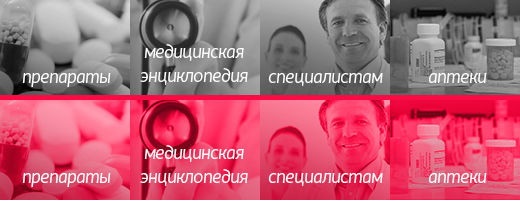
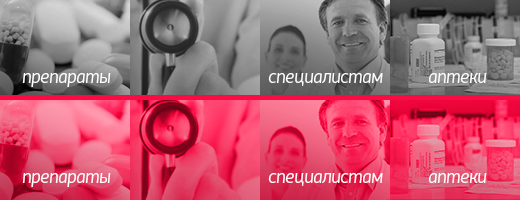
fixed menu style

diff --git a/src/Vidal/MainBundle/Resources/public/stylesheets/common.min.css b/src/Vidal/MainBundle/Resources/public/stylesheets/common.min.css
@@ -1,1 +1,1 @@
-html{margin:0;height:100%}body{margin:0;width:100%;height:100%;font-family:sans-serif;font-size:14px;color:#333}.wrapper{width:995px;margin:0 auto;padding:0 7px;min-height:100%;height:auto!important;height:100%}.header{position:relative;padding-bottom:24px}.header-link{display:block;width:143px;height:105px;background:url(../images/header.jpg) no-repeat top left}.header-about{position:absolute;top:49px;left:173px;width:230px;height:34px;background:url(../images/header-about.jpg) no-repeat top left}.header-search{position:absolute;top:53px;left:479px;width:63px;height:16px;background:url(../images/header-search.jpg) no-repeat top left}.middle{width:100%;position:relative}.main{padding:0 35px;vertical-align:top;min-width:520px}.content{position:relative}.left-sidebar{width:160px;max-width:160px;position:relative;vertical-align:top}.right-sidebar{width:242px;max-width:242px;position:relative;vertical-align:top}.footer{margin-top:32px;border-top:1px solid #d71344;padding:22px 10px 32px;position:relative}.footer-info{max-width:672px;margin:0 auto;text-align:justify;font-size:12px;color:#555}.footer-copyright{height:20px;margin:15px 0;vertical-align:bottom;text-align:center}.footer-copyright span{display:inline-block;margin-bottom:3px;font-size:90%}.footer-logo{display:block;border:none;position:absolute;bottom:6px;right:0}.footer-contacts{position:absolute;bottom:15px;left:0}.footer-contacts a{margin-right:15px;font-size:15px;font-weight:700}sup{line-height:5px}a{color:#d71344}img{border:none}input[type=email],input[type=number],input[type=password],input[type=text],input[type=url]{width:308px;height:27px;padding:0 8px 2px;border-radius:4px;-webkit-border-radius:4px;-moz-border-radius:4px;border:1px solid #d71344}select{width:326px}textarea{width:308px;padding:2px 8px;height:60px;border-radius:4px;-webkit-border-radius:4px;-moz-border-radius:4px;border:1px solid #d71344;resize:vertical}table{border-collapse:collapse;border-spacing:0}h1{font-size:16px;color:#d71344;font-weight:700;margin-bottom:20px;position:relative}h1 span{font-style:italic;color:#999}#main h1:first-of-type{margin-top:0}.caption{color:#d71344}.center{text-align:center}.right{text-align:right}.bg-gray{background:#F6F6F6}.red{color:#d00}.asterisk{margin-left:3px;font-weight:700}.loz{vertical-align:bottom}.small{font-style:normal;font-weight:400;font-size:13px;color:#999!important}.tip{color:#476173;font-size:13px}.bold{font-weight:700}.linke{border-bottom:1px dashed #d71344;text-decoration:none;color:#2f4053;font-weight:700;display:inline-block}.linke:hover{color:#d71344}tr.bold td{background-color:#D7E1EC;padding-left:5px!important}.good{color:green}.note{display:block;background:beige;border:1px solid #e0e0c4;font-size:13px;text-align:center;padding:3px 6px;color:#726b53;text-decoration:none}.note:hover{color:#534d3c;border:1px solid #c0c0a8}.dashed{text-decoration:none;border-bottom:1px dashed #268366}.dot{border-top:1px dotted #d1d1d1;margin-top:2px}.clear{clear:both}.dashed:hover{border-bottom:none}.dotted{line-height:19px;border-bottom:2px dotted #c1c1c1}.dotted:hover{border-bottom:2px dotted #999}.underline{text-decoration:underline}.no-underline{text-decoration:none}.no-underline:hover{text-decoration:underline}.ul,.ul-style{padding:0;margin:0;list-style:none}.ul-style li{padding-left:13px;background:url(../images/bullets.gif) no-repeat -13px -13px;margin-bottom:2px}.border-line{border:1px solid #aaa}.border-radius{border-radius:4px;-moz-border-radius:4px;-webkit-border-radius:4px}.italic{font-style:italic!important}.thanks{margin:5px 0 15px;padding:8px 15px 10px;font-style:italic;font-weight:700;color:#2f4053;background-color:#F6F6F6;font-size:15px}.thanks.error{color:maroon;background:#eee8aa}.raspberry{color:#d71344}#vidal .highlight{color:#d71344;font-weight:700}.no-selection *{-webkit-touch-callout:none;-webkit-user-select:none;-khtml-user-select:none;-moz-user-select:none;-ms-user-select:none;user-select:none}.ajax-loader{height:16px;width:16px;background:url(../images/ajax-loader.gif) no-repeat top left}.title{background-color:#F5F5F5;font-weight:700;font-size:16px}.title a{display:block;padding:5px 7px 6px;text-decoration:none;color:#2e3f51}.title a:hover{text-decoration:underline}.yad{margin:20px 0 10px}.bads{font-size:9px;color:#2f4053}.tags a{display:inline-block;position:relative;font-size:11px;border:1px solid #d4d4d4;border-radius:3px;padding:1px 4px;background:#f6f6f6;color:#505050;text-decoration:none}.tags a:hover{color:#333;background-color:#eee;border-color:#bbb}.sidebar-menu .active{color:#6c7580}.sidebar-menu li{margin-bottom:16px}.sidebar-menu li a{font-weight:700;font-size:16px;text-decoration:none}.auth{margin:30px 0 12px;padding:10px;border:2px solid #eee}.auth .auth-fail-message{display:none;margin:10px 2px 0;font-style:italic;font-size:16px;text-align:center}.auth .auth-info{margin-bottom:10px;font-style:italic;font-size:16px;text-align:center}.auth .auth-password{margin:8px 0 15px}.auth input{height:26px;width:120px;border-radius:0;border:none;background:#e1e1e1}.auth label{display:block;margin-bottom:4px;font-style:italic;font-size:14px;color:#999}.auth-submit{text-align:center}.auth-welcome{margin-bottom:10px;color:#999;font-style:italic;font-size:15px}.auth-controls li{margin-bottom:10px}.auth-controls li a{font-weight:700;font-size:16px;text-decoration:none}.go-registration{margin-bottom:20px;font-size:14px;text-align:center;font-weight:700}.go-reset{margin-top:14px}.go-reset a{color:#919191;font-size:12px}.auth-popup{display:none;position:fixed;width:200px;padding:18px 30px 26px;top:50%;left:50%;margin-top:-220px;margin-left:-130px;background:#fff;border:none;z-index:1001;box-shadow:0 0 10px rgba(0,0,0,.5);-webkit-box-shadow:0 0 10px rgba(0,0,0,.5);-moz-box-shadow:0 0 10px rgba(0,0,0,.5)}.auth-popup input{width:184px}.auth-popup .auth-submit{margin-top:24px;text-align:center}.auth-popup-close{display:block;position:absolute;top:0;right:0;cursor:pointer;opacity:.3}.auth-popup-close:hover{opacity:1}.closed-info{display:none;font-size:15px;background:beige;padding:6px 8px 7px}.closed-info span{margin-right:6px}.form_table{width:100%}.form_table td.label{width:40%;vertical-align:middle;padding-bottom:8px;color:#666d75}.form_table td.widget{width:60%;padding-bottom:8px}.form_table input[type=checkbox]{margin-left:0}.btn-red,.form_table button{display:inline-block;margin:0;padding:5px 22px 7px;background-color:#d71344;color:#fff;border:none;outline:0;cursor:pointer;text-decoration:none;font-size:15px;text-align:center}.btn-red:active,.btn-red:hover,.form_table button:active,.form_table button:hover{background-color:#c0113d}.btn-red:active,.form_table button:active{position:relative;top:1px}.form_table .form_button{padding-top:20px}.form_table .form_error ul{margin:3px 0 10px;padding-left:15px;color:#d00}.form_table .data-help{color:#A1A1A1;font-size:11px;padding-left:1px}.form_errors{color:#d00}#vidal{position:relative}#vidal h1{margin-top:0}#vidal h1 a{text-decoration:none;color:#00468c}#vidal .mnn{color:#476173!important;margin-left:5px}#vidal h1 a.mnn{font-size:15px;margin-left:20px}#vidal h1 a:hover{text-decoration:underline}.anons{margin:13px 0;background:#f5f5f5;padding:3px 5px 5px;color:#476173}.anons-drugs{margin-top:0}.anons-head span{color:#476173}.anons-content{font-size:13px;margin-top:2px;color:#555}.anons-product{font-weight:700}.block{margin-top:17px}.block-anons{padding:3px 5px;background:#f5f5f5}.block-head{margin-bottom:3px;margin-top:2px;font-weight:700;color:#2e3f51;font-size:15px}.block-head span{color:#333}.block-tip span{color:#6C8EA7}.block-tip{font-size:13px;color:#999}.block-content{font-size:13px}.block-content table{width:100%;margin:5px 0;border-collapse:collapse;font-size:13px}.block-content td{padding:3px 5px;border:1px solid #ebebeb}.block-content p{margin:5px 0;font-size:13px}.block-highlight{box-shadow:0 0 15px rgba(0,0,0,.7);border-radius:4px;-moz-border-radius:4px;-webkit-border-radius:4px}.block-info .block-head{display:inline-block;width:145px}.atc-name{margin-left:2px;margin-right:5px}.conditions{overflow:hidden;margin:18px 0 10px}.conditions a{float:left;margin-right:5px}.navigation{margin-top:20px;font-size:14px;position:relative}.navigation>i{display:block;height:5px;line-height:0;font-size:0;background:url(../images/navigation_bg.gif)}.navigation-items{padding:2px 3px 6px;border:1px solid #e9e9e9;border-top:0;background:url(../images/navigation_items_bg.gif) repeat-x 0 100%}.navigation-items div{display:inline-block;width:46%;margin-bottom:5px;padding-left:13px;background:url(../images/bullets.gif) no-repeat -13px -13px}.navigation-items div:last-child{margin-bottom:0}.navigation-items a{text-decoration:none;color:#2e3f51;border-bottom:1px dashed #aaa}.navigation-items a:hover{border-bottom:none;color:#d71344}.navigation-items a span{color:#333}.copy{margin-top:20px}.copy-head{color:#476173;font-size:12px}.copy textarea{width:100%;height:47px!important;margin:2px 0;padding:2px 4px;font-size:12px;opacity:.5;border:1px solid #C54B69;border-radius:0;-webkit-border-radius:0;-moz-border-radius:0}.copy textarea:hover{opacity:1}.vidal .pictures img{display:inline-block;max-height:200px;margin-right:20px}.vidal .elaboration{font-size:16px;margin-left:3px;font-weight:400}.vidal a{font-size:14px}.products-table{width:100%;border-collapse:collapse;border-spacing:0;font-size:14px;line-height:12px;margin:0!important}.products-table td{border:0;border-bottom:1px solid #D4D4D4;padding:4px 5px;vertical-align:middle}.products-table-loz{border-bottom:0!important;padding:0!important}.products-table-header td{font-weight:700;color:#476173;border-bottom:0;padding-top:10px;padding-bottom:5px;font-size:12px}.products-table tr.important .products-table-name{font-weight:700}.products-table-name{font-size:14px;line-height:17px}.products-table-name.admin{position:relative}.products-table-name.admin:hover .admin-edit{opacity:1}.products-table-company{width:30%;font-size:14px;line-height:14px}.products-table-company a{font-size:12px}.products-table-picture{text-align:center}.products-table-picture img{max-width:70px;max-height:70px}.products-table-indication{position:relative;padding:0 5px 0 0!important;cursor:pointer}.products-table-indication img{display:inline-block;width:12px;opacity:.8}.products-table-indication>div{position:absolute;left:0;top:28px;width:400px;padding:6px 10px;background:beige;border:1px solid #ccc;border-radius:4px;-webkit-border-radius:4px;-moz-border-radius:4px;box-shadow:0 0 10px rgba(0,0,0,.4);z-index:999;font-size:13px}.products-table-indication>div p{margin:3px}.products-table-zip{margin-left:10px;font-size:13px}.products-table-zip>span{display:block;margin:5px 0 2px;font-size:12px;color:#999}.products-table-indication>div{display:none}.products-table-indication p{margin:0}.products-table tr:last-child td{border-bottom:0}.admin-edit{display:inline-block;position:absolute;top:0;right:0;opacity:0;z-index:10}.admin-edit img{width:18px;border:none!important}.admin-edit.fade{opacity:.4}.admin-edit.fade:hover{opacity:1}.no-results{padding:6px 10px 7px;background:#f5f5f5;font-size:16px;color:#476173}.no-results span{color:#4682b4}#search_form{position:absolute;top:36px;right:0;width:440px}#search_form .chosen-container-single .chosen-single{border-radius:0}#search_form table{width:100%}#search_form .search-type{vertical-align:top;background:0 0;border:none;font-style:italic;width:175px;font-size:15px}#search_form .search-inputs{width:257px}#search_form .search-query,#search_form .search-submit{float:right}#search_form .sf{width:261px}#search_form .st{padding:5px 0 0 2px}#search_form .row1 td{border:1px solid #ccc;background:#F6F6F6}.search td{padding:0}.search-inputs{overflow:hidden}.search .search-type{width:160px}.search .search-query{display:inline-block;width:195px;margin:0 0 0 2px;padding:0 6px;border:none;outline:0;height:50px;background:#F6F6F6;vertical-align:top;font-style:italic;font-size:14px}.search-bad{position:absolute;left:0;bottom:-20px;color:#2f4053;font-size:14px}.search-bad>*{display:inline-block;vertical-align:top}.search .search-inputs{display:inline-block}#wrapper .search .chosen-container-single .chosen-single{border:none;height:50px;background:#F6F6F6}#wrapper #search_form .chosen-container-active.chosen-with-drop .chosen-single{border:none}#wrapper #search_form .chosen-container .chosen-drop{border:1px solid #eee;border-radius:0;background:#F6F6F6}.search .chosen-container-single .chosen-single span{margin-top:12px}.search .chosen-container{vertical-align:top;color:#2e3f51;font-style:italic;font-size:14px}.search .chosen-container-single .chosen-single div{top:13px;width:16px}.search .chosen-container-single .chosen-single span{margin-right:16px}.search .chosen-container-active .chosen-single{border:none;box-shadow:none}.search .search-submit{background:#F6F6F6 url(../images/search.png) no-repeat 50% 50%;width:49px;height:49px;border:none;cursor:pointer;outline:0}#searche_link{border-bottom:1px dashed #d71344;text-decoration:none;color:#2f4053;font-size:14px}.search-info{margin-left:5px;padding-left:22px;font-size:15px;color:#476173;background:url(../images/search_16.png) no-repeat top left}.search-info b{color:#333}.pagination{overflow:hidden;font-size:15px}.pagination span{display:inline-block;width:26px;text-align:center;height:22px;line-height:22px;margin-right:2px;font-weight:700;float:left;border:1px solid #cfd1da}.pagination a{text-decoration:none;display:inline-block;width:26px;color:#d71344}.pagination .current,.pagination span:hover a{color:#fff;background-color:#d71344}.pagination .next,.pagination .next a,.pagination .previous,.pagination .previous a{width:51px}.menu{overflow:hidden;margin-bottom:24px}.menu a{position:relative;display:block;float:left;width:130px;height:99px;background-image:url(../images/bg/menu-small.png);background-repeat:no-repeat;z-index:10}.menu a span{display:block;position:absolute;z-index:5;text-align:center;left:0;right:0;bottom:10px;color:#EFEFEF;font-style:italic;font-size:16px;line-height:16px}.menu-drugs{background-position:0 0}.menu-drugs .linke{margin-bottom:10px}.menu-symptoms{background-position:-130px 0}.menu-doctors{background-position:-260px 0}.menu-pharmacy{background-position:-390px 0}.menu-drugs.active,.menu-drugs:hover{background-position:0 -101px}.menu-symptoms.active,.menu-symptoms:hover{background-position:-130px -101px}.menu-doctors.active,.menu-doctors:hover{background-position:-260px -101px}.menu-pharmacy.active,.menu-pharmacy:hover{background-position:-390px -101px}.menu-big a{background-image:url(../images/bg/menu-big.png);height:246px}.menu-big .menu-drugs{background-position:0 -1px}.menu-big .menu-symptoms{background-position:-130px -1px}.menu-big .menu-doctors{background-position:-260px -1px}.menu-big .menu-pharmacy{background-position:-390px -1px}.menu-big .menu-drugs.active,.menu-big .menu-drugs:hover{background-position:0 -249px}.menu-big .menu-symptoms.active,.menu-big .menu-symptoms:hover{background-position:-130px -249px}.menu-big .menu-doctors.active,.menu-big .menu-doctors:hover{background-position:-260px -249px}.menu-big .menu-pharmacy.active,.menu-big .menu-pharmacy:hover{background-position:-390px -249px}.breadcrumbs{margin:-10px 0 20px;font-size:14px;color:#2f4053;line-height:17px}.breadcrumbs>*{display:inline-block;vertical-align:top}.breadcrumbs i{width:16px;height:16px;background:url(../images/menu-next.png) no-repeat}.breadcrumbs a{color:#2f4053}.tabs{margin-bottom:22px;background:none repeat scroll 0 0 #E8F2F4;border:1px solid #D6DADD;position:relative}.menu-drugs .tabs{margin-bottom:20px}.tabs a{display:inline-block;padding:5px 7px 6px 6px;text-decoration:none;color:#2e3f51;font-weight:700;font-size:13px}.tabs a.active{color:#fff;background-color:#2e3f51}.tabs a.active:hover{background-color:#2e3f51}.tabs a:hover{background:#D4D4D4}.tabs-more{display:none;position:absolute;width:200px;top:27px;right:-1px;background:none repeat scroll 0 0 #E8F2F4;border:1px solid #D6DADD;z-index:999}.tabs-more a{display:block}.info-line{margin-top:17px;padding:4px 6px 5px;font-weight:700;color:#2e3f51;font-size:15px;margin-bottom:4px;background:#f5f5f5}.info-line i{display:inline-block;margin:0 1px;font-style:normal;color:#476173}.info-line span{color:#333}.banner{position:relative;margin:0 auto;border:1px solid #ddd}#banner_top img{border:none}#banner_bottom{clear:both;margin:0 auto 20px}.banner a,.banner div,.banner img{display:block;position:absolute;top:0;left:0;z-index:5}.banner a{position:absolute}.left-sidebar>div,.right-sidebar>div{margin-bottom:25px}.footer-banner{text-align:center}.footer-banner>div{display:inline-block;margin-top:20px}.description{border:3px solid #eee;font-size:14px!important;margin-bottom:10px;color:#555}.description>span{display:block;background:#f5f5f5;padding:4px 7px 7px;color:#476173;border-bottom:1px solid #eee}.description>div{padding:6px 7px 8px}.module{position:relative}.module.hidden{border:none}.module-1{position:relative;border:3px solid #eee;font-size:14px!important;color:#555;margin-bottom:24px}.module-1 p{margin:0}.module-1 .module-title{background:#f5f5f5;padding:4px 10px 6px;color:#476173;font-size:15px;border-bottom:1px solid #eee}.module-1 .module-body{padding:5px 10px 7px}.text{overflow:hidden;max-width:520px}.article .text,.publication .text{padding:0;margin:0}.text p{margin-left:0!important;margin-right:0!important}.text a,.text a *{color:#d71344!important;text-decoration:none!important}.text a :hover,.text a:hover{text-decoration:underline!important}.text img{max-width:520px!important}.text p{margin-top:0!important;margin-bottom:9px!important}.text p,.text p *{line-height:inherit!important}.text td p{margin:0!important}.text *{font-family:sans-serif!important;font-size:14px}.text sup,.text sup *{vertical-align:top;font-size:11px!important;line-height:9px!important}.u1 li{margin:1px 0!important}.u2 li{margin:2px 0!important}.u3 li{margin:3px 0!important}.u4 li{margin:4px 0!important}.u5 li{margin:5px 0!important}.u6 li{margin:6px 0!important}.u7 li{margin:7px 0!important}.u8 li{margin:8px 0!important}.u9 li{margin:9px 0!important}.u10 li{margin:10px 0!important}.u11 li{margin:11px 0!important}.u12 li{margin:12px 0!important}.u13 li{margin:13px 0!important}.u14 li{margin:14px 0!important}.u15 li{margin:15px 0!important}.u16 li{margin:16px 0!important}.u17 li{margin:17px 0!important}.u18 li{margin:18px 0!important}.u19 li{margin:19px 0!important}.u20 li{margin:20px 0!important}.p1 *{line-height:1px!important}.p2 *{line-height:2px!important}.p3 *{line-height:3px!important}.p4 *{line-height:4px!important}.p5 *{line-height:5px!important}.p6 *{line-height:6px!important}.p7 *{line-height:7px!important}.p8 *{line-height:8px!important}.p9 *{line-height:9px!important}.p10 *{line-height:10px!important}.p11 *{line-height:11px!important}.p12 *{line-height:12px!important}.p13 *{line-height:13px!important}.p14 *{line-height:14px!important}.p15 *{line-height:15px!important}.p16 *{line-height:16px!important}.p17 *{line-height:17px!important}.p18 *{line-height:18px!important}.p19 *{line-height:19px!important}.p20 *{line-height:20px!important}#overlay{position:fixed;display:none;top:0;left:0;width:100%;height:100%;background:url(../images/bg/dia.png) top left;filter:alpha(opacity=30);-moz-opacity:.3;-khtml-opacity:.3;opacity:.3;z-index:1000}#top-link{display:none;z-index:999;opacity:.7;position:fixed;top:100%;left:100%;margin-top:-80px;margin-left:-80px}#top-link:hover{opacity:1}.ui-menu{width:300px!important}.ui-menu-item em{font-style:normal;font-weight:700}.ui-menu .ui-menu-item a{font-size:12px}.ui-menu .aut.ui-menu-item{border-bottom:1px dotted #ccc}.ui-menu .aut.ui-menu-item:last-child{border-bottom:none}.ui-menu .aut.ui-menu-item a{line-height:1.2;color:#2e3f51}.ui-menu .aut.ui-menu-item i{margin-right:8px;font-size:12px;color:#999}#phrpAd{background:#FAFAFA;border:1px solid #CED2D5!important}#phrpAd h1{background-color:#D8DBE2!important;color:#476173!important;font-size:12px!important;padding:0 0 2px!important;margin-bottom:5px!important}#phrpAd a{text-decoration:none!important;color:#555!important}#phrpAd a:hover{text-decoration:underline!important}#phrpAd .aSTtl a{font-size:11px;color:#d71344!important}#phrpAd .aCt{font-weight:400!important;color:gray!important;font-size:11px}#phrpAd .aTtl{font-size:12px!important}#phrpAd .aItem{margin:5px 10px 0!important;border-bottom:1px dashed #CED2D5;padding-bottom:6px}.popupMarket{position:fixed;background:#FFF0F0;border:2px solid #555;box-shadow:0 0 10px rgba(0,0,0,.5);text-align:center;top:40%;left:50%;width:250px;margin-left:-125px;padding:20px;border-radius:5px;z-index:999999;display:none}
+html{margin:0;height:100%}body{margin:0;width:100%;height:100%;font-family:sans-serif;font-size:14px;color:#333}.wrapper{width:995px;margin:0 auto;padding:0 7px;min-height:100%;height:auto!important;height:100%}.header{position:relative;padding-bottom:24px}.header-link{display:block;width:143px;height:105px;background:url(../images/header.jpg) no-repeat top left}.header-about{position:absolute;top:49px;left:173px;width:230px;height:34px;background:url(../images/header-about.jpg) no-repeat top left}.header-search{position:absolute;top:53px;left:479px;width:63px;height:16px;background:url(../images/header-search.jpg) no-repeat top left}.middle{width:100%;position:relative}.main{padding:0 35px;vertical-align:top;min-width:520px}.content{position:relative}.left-sidebar{width:160px;max-width:160px;position:relative;vertical-align:top}.right-sidebar{width:242px;max-width:242px;position:relative;vertical-align:top}.footer{margin-top:32px;border-top:1px solid #d71344;padding:22px 10px 32px;position:relative}.footer-info{max-width:672px;margin:0 auto;text-align:justify;font-size:12px;color:#555}.footer-copyright{height:20px;margin:15px 0;vertical-align:bottom;text-align:center}.footer-copyright span{display:inline-block;margin-bottom:3px;font-size:90%}.footer-logo{display:block;border:none;position:absolute;bottom:6px;right:0}.footer-contacts{position:absolute;bottom:15px;left:0}.footer-contacts a{margin-right:15px;font-size:15px;font-weight:700}sup{line-height:5px}a{color:#d71344}img{border:none}input[type=email],input[type=number],input[type=password],input[type=text],input[type=url]{width:308px;height:27px;padding:0 8px 2px;border-radius:4px;-webkit-border-radius:4px;-moz-border-radius:4px;border:1px solid #d71344}select{width:326px}textarea{width:308px;padding:2px 8px;height:60px;border-radius:4px;-webkit-border-radius:4px;-moz-border-radius:4px;border:1px solid #d71344;resize:vertical}table{border-collapse:collapse;border-spacing:0}h1{font-size:16px;color:#d71344;font-weight:700;margin-bottom:20px;position:relative}h1 span{font-style:italic;color:#999}#main h1:first-of-type{margin-top:0}.caption{color:#d71344}.center{text-align:center}.right{text-align:right}.bg-gray{background:#F6F6F6}.red{color:#d00}.asterisk{margin-left:3px;font-weight:700}.loz{vertical-align:bottom}.small{font-style:normal;font-weight:400;font-size:13px;color:#999!important}.tip{color:#476173;font-size:13px}.bold{font-weight:700}.linke{border-bottom:1px dashed #d71344;text-decoration:none;color:#2f4053;font-weight:700;display:inline-block}.linke:hover{color:#d71344}tr.bold td{background-color:#D7E1EC;padding-left:5px!important}.good{color:green}.note{display:block;background:beige;border:1px solid #e0e0c4;font-size:13px;text-align:center;padding:3px 6px;color:#726b53;text-decoration:none}.note:hover{color:#534d3c;border:1px solid #c0c0a8}.dashed{text-decoration:none;border-bottom:1px dashed #268366}.dot{border-top:1px dotted #d1d1d1;margin-top:2px}.clear{clear:both}.dashed:hover{border-bottom:none}.dotted{line-height:19px;border-bottom:2px dotted #c1c1c1}.dotted:hover{border-bottom:2px dotted #999}.underline{text-decoration:underline}.no-underline{text-decoration:none}.no-underline:hover{text-decoration:underline}.ul,.ul-style{padding:0;margin:0;list-style:none}.ul-style li{padding-left:13px;background:url(../images/bullets.gif) no-repeat -13px -13px;margin-bottom:2px}.border-line{border:1px solid #aaa}.border-radius{border-radius:4px;-moz-border-radius:4px;-webkit-border-radius:4px}.italic{font-style:italic!important}.thanks{margin:5px 0 15px;padding:8px 15px 10px;font-style:italic;font-weight:700;color:#2f4053;background-color:#F6F6F6;font-size:15px}.thanks.error{color:maroon;background:#eee8aa}.raspberry{color:#d71344}#vidal .highlight{color:#d71344;font-weight:700}.no-selection *{-webkit-touch-callout:none;-webkit-user-select:none;-khtml-user-select:none;-moz-user-select:none;-ms-user-select:none;user-select:none}.ajax-loader{height:16px;width:16px;background:url(../images/ajax-loader.gif) no-repeat top left}.title{background-color:#F5F5F5;font-weight:700;font-size:16px}.title a{display:block;padding:5px 7px 6px;text-decoration:none;color:#2e3f51}.title a:hover{text-decoration:underline}.yad{margin:20px 0 10px}.bads{font-size:9px;color:#2f4053}.tags a{display:inline-block;position:relative;font-size:11px;border:1px solid #d4d4d4;border-radius:3px;padding:1px 4px;background:#f6f6f6;color:#505050;text-decoration:none}.tags a:hover{color:#333;background-color:#eee;border-color:#bbb}.sidebar-menu .active{color:#6c7580}.sidebar-menu li{margin-bottom:16px}.sidebar-menu li a{font-weight:700;font-size:16px;text-decoration:none}.auth{margin:30px 0 12px;padding:10px;border:2px solid #eee}.auth .auth-fail-message{display:none;margin:10px 2px 0;font-style:italic;font-size:16px;text-align:center}.auth .auth-info{margin-bottom:10px;font-style:italic;font-size:16px;text-align:center}.auth .auth-password{margin:8px 0 15px}.auth input{height:26px;width:120px;border-radius:0;border:none;background:#e1e1e1}.auth label{display:block;margin-bottom:4px;font-style:italic;font-size:14px;color:#999}.auth-submit{text-align:center}.auth-welcome{margin-bottom:10px;color:#999;font-style:italic;font-size:15px}.auth-controls li{margin-bottom:10px}.auth-controls li a{font-weight:700;font-size:16px;text-decoration:none}.go-registration{margin-bottom:20px;font-size:14px;text-align:center;font-weight:700}.go-reset{margin-top:14px}.go-reset a{color:#919191;font-size:12px}.auth-popup{display:none;position:fixed;width:200px;padding:18px 30px 26px;top:50%;left:50%;margin-top:-220px;margin-left:-130px;background:#fff;border:none;z-index:1001;box-shadow:0 0 10px rgba(0,0,0,.5);-webkit-box-shadow:0 0 10px rgba(0,0,0,.5);-moz-box-shadow:0 0 10px rgba(0,0,0,.5)}.auth-popup input{width:184px}.auth-popup .auth-submit{margin-top:24px;text-align:center}.auth-popup-close{display:block;position:absolute;top:0;right:0;cursor:pointer;opacity:.3}.auth-popup-close:hover{opacity:1}.closed-info{display:none;font-size:15px;background:beige;padding:6px 8px 7px}.closed-info span{margin-right:6px}.form_table{width:100%}.form_table td.label{width:40%;vertical-align:middle;padding-bottom:8px;color:#666d75}.form_table td.widget{width:60%;padding-bottom:8px}.form_table input[type=checkbox]{margin-left:0}.btn-red,.form_table button{display:inline-block;margin:0;padding:5px 22px 7px;background-color:#d71344;color:#fff;border:none;outline:0;cursor:pointer;text-decoration:none;font-size:15px;text-align:center}.btn-red:active,.btn-red:hover,.form_table button:active,.form_table button:hover{background-color:#c0113d}.btn-red:active,.form_table button:active{position:relative;top:1px}.form_table .form_button{padding-top:20px}.form_table .form_error ul{margin:3px 0 10px;padding-left:15px;color:#d00}.form_table .data-help{color:#A1A1A1;font-size:11px;padding-left:1px}.form_errors{color:#d00}#vidal{position:relative}#vidal h1{margin-top:0}#vidal h1 a{text-decoration:none;color:#00468c}#vidal .mnn{color:#476173!important;margin-left:5px}#vidal h1 a.mnn{font-size:15px;margin-left:20px}#vidal h1 a:hover{text-decoration:underline}.anons{margin:13px 0;background:#f5f5f5;padding:3px 5px 5px;color:#476173}.anons-drugs{margin-top:0}.anons-head span{color:#476173}.anons-content{font-size:13px;margin-top:2px;color:#555}.anons-product{font-weight:700}.block{margin-top:17px}.block-anons{padding:3px 5px;background:#f5f5f5}.block-head{margin-bottom:3px;margin-top:2px;font-weight:700;color:#2e3f51;font-size:15px}.block-head span{color:#333}.block-tip span{color:#6C8EA7}.block-tip{font-size:13px;color:#999}.block-content{font-size:13px}.block-content table{width:100%;margin:5px 0;border-collapse:collapse;font-size:13px}.block-content td{padding:3px 5px;border:1px solid #ebebeb}.block-content p{margin:5px 0;font-size:13px}.block-highlight{box-shadow:0 0 15px rgba(0,0,0,.7);border-radius:4px;-moz-border-radius:4px;-webkit-border-radius:4px}.block-info .block-head{display:inline-block;width:145px}.atc-name{margin-left:2px;margin-right:5px}.conditions{overflow:hidden;margin:18px 0 10px}.conditions a{float:left;margin-right:5px}.navigation{margin-top:20px;font-size:14px;position:relative}.navigation>i{display:block;height:5px;line-height:0;font-size:0;background:url(../images/navigation_bg.gif)}.navigation-items{padding:2px 3px 6px;border:1px solid #e9e9e9;border-top:0;background:url(../images/navigation_items_bg.gif) repeat-x 0 100%}.navigation-items div{display:inline-block;width:46%;margin-bottom:5px;padding-left:13px;background:url(../images/bullets.gif) no-repeat -13px -13px}.navigation-items div:last-child{margin-bottom:0}.navigation-items a{text-decoration:none;color:#2e3f51;border-bottom:1px dashed #aaa}.navigation-items a:hover{border-bottom:none;color:#d71344}.navigation-items a span{color:#333}.copy{margin-top:20px}.copy-head{color:#476173;font-size:12px}.copy textarea{width:100%;height:47px!important;margin:2px 0;padding:2px 4px;font-size:12px;opacity:.5;border:1px solid #C54B69;border-radius:0;-webkit-border-radius:0;-moz-border-radius:0}.copy textarea:hover{opacity:1}.vidal .pictures img{display:inline-block;max-height:200px;margin-right:20px}.vidal .elaboration{font-size:16px;margin-left:3px;font-weight:400}.vidal a{font-size:14px}.products-table{width:100%;border-collapse:collapse;border-spacing:0;font-size:14px;line-height:12px;margin:0!important}.products-table td{border:0;border-bottom:1px solid #D4D4D4;padding:4px 5px;vertical-align:middle}.products-table-loz{border-bottom:0!important;padding:0!important}.products-table-header td{font-weight:700;color:#476173;border-bottom:0;padding-top:10px;padding-bottom:5px;font-size:12px}.products-table tr.important .products-table-name{font-weight:700}.products-table-name{font-size:14px;line-height:17px}.products-table-name.admin{position:relative}.products-table-name.admin:hover .admin-edit{opacity:1}.products-table-company{width:30%;font-size:14px;line-height:14px}.products-table-company a{font-size:12px}.products-table-picture{text-align:center}.products-table-picture img{max-width:70px;max-height:70px}.products-table-indication{position:relative;padding:0 5px 0 0!important;cursor:pointer}.products-table-indication img{display:inline-block;width:12px;opacity:.8}.products-table-indication>div{position:absolute;left:0;top:28px;width:400px;padding:6px 10px;background:beige;border:1px solid #ccc;border-radius:4px;-webkit-border-radius:4px;-moz-border-radius:4px;box-shadow:0 0 10px rgba(0,0,0,.4);z-index:999;font-size:13px}.products-table-indication>div p{margin:3px}.products-table-zip{margin-left:10px;font-size:13px}.products-table-zip>span{display:block;margin:5px 0 2px;font-size:12px;color:#999}.products-table-indication>div{display:none}.products-table-indication p{margin:0}.products-table tr:last-child td{border-bottom:0}.admin-edit{display:inline-block;position:absolute;top:0;right:0;opacity:0;z-index:10}.admin-edit img{width:18px;border:none!important}.admin-edit.fade{opacity:.4}.admin-edit.fade:hover{opacity:1}.no-results{padding:6px 10px 7px;background:#f5f5f5;font-size:16px;color:#476173}.no-results span{color:#4682b4}#search_form{position:absolute;top:36px;right:0;width:440px}#search_form .chosen-container-single .chosen-single{border-radius:0}#search_form table{width:100%}#search_form .search-type{vertical-align:top;background:0 0;border:none;font-style:italic;width:175px;font-size:15px}#search_form .search-inputs{width:257px}#search_form .search-query,#search_form .search-submit{float:right}#search_form .sf{width:261px}#search_form .st{padding:5px 0 0 2px}#search_form .row1 td{border:1px solid #ccc;background:#F6F6F6}.search td{padding:0}.search-inputs{overflow:hidden}.search .search-type{width:160px}.search .search-query{display:inline-block;width:195px;margin:0 0 0 2px;padding:0 6px;border:none;outline:0;height:50px;background:#F6F6F6;vertical-align:top;font-style:italic;font-size:14px}.search-bad{position:absolute;left:0;bottom:-20px;color:#2f4053;font-size:14px}.search-bad>*{display:inline-block;vertical-align:top}.search .search-inputs{display:inline-block}#wrapper .search .chosen-container-single .chosen-single{border:none;height:50px;background:#F6F6F6}#wrapper #search_form .chosen-container-active.chosen-with-drop .chosen-single{border:none}#wrapper #search_form .chosen-container .chosen-drop{border:1px solid #eee;border-radius:0;background:#F6F6F6}.search .chosen-container-single .chosen-single span{margin-top:12px}.search .chosen-container{vertical-align:top;color:#2e3f51;font-style:italic;font-size:14px}.search .chosen-container-single .chosen-single div{top:13px;width:16px}.search .chosen-container-single .chosen-single span{margin-right:16px}.search .chosen-container-active .chosen-single{border:none;box-shadow:none}.search .search-submit{background:#F6F6F6 url(../images/search.png) no-repeat 50% 50%;width:49px;height:49px;border:none;cursor:pointer;outline:0}#searche_link{border-bottom:1px dashed #d71344;text-decoration:none;color:#2f4053;font-size:14px}.search-info{margin-left:5px;padding-left:22px;font-size:15px;color:#476173;background:url(../images/search_16.png) no-repeat top left}.search-info b{color:#333}.pagination{overflow:hidden;font-size:15px}.pagination span{display:inline-block;width:26px;text-align:center;height:22px;line-height:22px;margin-right:2px;font-weight:700;float:left;border:1px solid #cfd1da}.pagination a{text-decoration:none;display:inline-block;width:26px;color:#d71344}.pagination .current,.pagination span:hover a{color:#fff;background-color:#d71344}.pagination .next,.pagination .next a,.pagination .previous,.pagination .previous a{width:51px}.menu{overflow:hidden;margin-bottom:24px}.menu a{position:relative;display:block;float:left;width:130px;height:99px;background-image:url(../images/bg/menu-small.png);background-repeat:no-repeat;z-index:10}.menu a img{display:inline-block;position:absolute;bottom:12px;left:12px;z-index:5}.menu-drugs{background-position:0 0}.menu-drugs .linke{margin-bottom:10px}.menu-symptoms{background-position:-130px 0}.menu-doctors{background-position:-260px 0}.menu-pharmacy{background-position:-390px 0}.menu-drugs.active,.menu-drugs:hover{background-position:0 -101px}.menu-symptoms.active,.menu-symptoms:hover{background-position:-130px -101px}.menu-doctors.active,.menu-doctors:hover{background-position:-260px -101px}.menu-pharmacy.active,.menu-pharmacy:hover{background-position:-390px -101px}.menu-small .menu-drugs.active,.menu-small .menu-drugs:hover{background-position:0 -100px}.menu-small .menu-symptoms.active,.menu-small .menu-symptoms:hover{background-position:-130px -100px}.menu-small .menu-doctors.active,.menu-small .menu-doctors:hover{background-position:-260px -100px}.menu-small .menu-pharmacy.active,.menu-small .menu-pharmacy:hover{background-position:-390px -100px}.menu-big a{background-image:url(../images/bg/menu-big.png);height:246px}.menu-big .menu-drugs{background-position:0 -1px}.menu-big .menu-symptoms{background-position:-130px -1px}.menu-big .menu-doctors{background-position:-260px -1px}.menu-big .menu-pharmacy{background-position:-390px -1px}.menu-big .menu-drugs.active,.menu-big .menu-drugs:hover{background-position:0 -249px}.menu-big .menu-symptoms.active,.menu-big .menu-symptoms:hover{background-position:-130px -249px}.menu-big .menu-doctors.active,.menu-big .menu-doctors:hover{background-position:-260px -249px}.menu-big .menu-pharmacy.active,.menu-big .menu-pharmacy:hover{background-position:-390px -249px}.breadcrumbs{margin:-10px 0 20px;font-size:14px;color:#2f4053;line-height:17px}.breadcrumbs>*{display:inline-block;vertical-align:top}.breadcrumbs i{width:16px;height:16px;background:url(../images/menu-next.png) no-repeat}.breadcrumbs a{color:#2f4053}.tabs{margin-bottom:22px;background:none repeat scroll 0 0 #E8F2F4;border:1px solid #D6DADD;position:relative}.menu-drugs .tabs{margin-bottom:20px}.tabs a{display:inline-block;padding:5px 7px 6px 6px;text-decoration:none;color:#2e3f51;font-weight:700;font-size:13px}.tabs a.active{color:#fff;background-color:#2e3f51}.tabs a.active:hover{background-color:#2e3f51}.tabs a:hover{background:#D4D4D4}.tabs-more{display:none;position:absolute;width:200px;top:27px;right:-1px;background:none repeat scroll 0 0 #E8F2F4;border:1px solid #D6DADD;z-index:999}.tabs-more a{display:block}.info-line{margin-top:17px;padding:4px 6px 5px;font-weight:700;color:#2e3f51;font-size:15px;margin-bottom:4px;background:#f5f5f5}.info-line i{display:inline-block;margin:0 1px;font-style:normal;color:#476173}.info-line span{color:#333}.banner{position:relative;margin:0 auto;border:1px solid #ddd}#banner_top img{border:none}#banner_bottom{clear:both;margin:0 auto 20px}.banner a,.banner div,.banner img{display:block;position:absolute;top:0;left:0;z-index:5}.banner a{position:absolute}.left-sidebar>div,.right-sidebar>div{margin-bottom:25px}.footer-banner{text-align:center}.footer-banner>div{display:inline-block;margin-top:20px}.description{border:3px solid #eee;font-size:14px!important;margin-bottom:10px;color:#555}.description>span{display:block;background:#f5f5f5;padding:4px 7px 7px;color:#476173;border-bottom:1px solid #eee}.description>div{padding:6px 7px 8px}.module{position:relative}.module.hidden{border:none}.module-1{position:relative;border:3px solid #eee;font-size:14px!important;color:#555;margin-bottom:24px}.module-1 p{margin:0}.module-1 .module-title{background:#f5f5f5;padding:4px 10px 6px;color:#476173;font-size:15px;border-bottom:1px solid #eee}.module-1 .module-body{padding:5px 10px 7px}.text{overflow:hidden;max-width:520px}.article .text,.publication .text{padding:0;margin:0}.text p{margin-left:0!important;margin-right:0!important}.text a,.text a *{color:#d71344!important;text-decoration:none!important}.text a :hover,.text a:hover{text-decoration:underline!important}.text img{max-width:520px!important}.text p{margin-top:0!important;margin-bottom:9px!important}.text p,.text p *{line-height:inherit!important}.text td p{margin:0!important}.text *{font-family:sans-serif!important;font-size:14px}.text sup,.text sup *{vertical-align:top;font-size:11px!important;line-height:9px!important}.u1 li{margin:1px 0!important}.u2 li{margin:2px 0!important}.u3 li{margin:3px 0!important}.u4 li{margin:4px 0!important}.u5 li{margin:5px 0!important}.u6 li{margin:6px 0!important}.u7 li{margin:7px 0!important}.u8 li{margin:8px 0!important}.u9 li{margin:9px 0!important}.u10 li{margin:10px 0!important}.u11 li{margin:11px 0!important}.u12 li{margin:12px 0!important}.u13 li{margin:13px 0!important}.u14 li{margin:14px 0!important}.u15 li{margin:15px 0!important}.u16 li{margin:16px 0!important}.u17 li{margin:17px 0!important}.u18 li{margin:18px 0!important}.u19 li{margin:19px 0!important}.u20 li{margin:20px 0!important}.p1 *{line-height:1px!important}.p2 *{line-height:2px!important}.p3 *{line-height:3px!important}.p4 *{line-height:4px!important}.p5 *{line-height:5px!important}.p6 *{line-height:6px!important}.p7 *{line-height:7px!important}.p8 *{line-height:8px!important}.p9 *{line-height:9px!important}.p10 *{line-height:10px!important}.p11 *{line-height:11px!important}.p12 *{line-height:12px!important}.p13 *{line-height:13px!important}.p14 *{line-height:14px!important}.p15 *{line-height:15px!important}.p16 *{line-height:16px!important}.p17 *{line-height:17px!important}.p18 *{line-height:18px!important}.p19 *{line-height:19px!important}.p20 *{line-height:20px!important}#overlay{position:fixed;display:none;top:0;left:0;width:100%;height:100%;background:url(../images/bg/dia.png) top left;filter:alpha(opacity=30);-moz-opacity:.3;-khtml-opacity:.3;opacity:.3;z-index:1000}#top-link{display:none;z-index:999;opacity:.7;position:fixed;top:100%;left:100%;margin-top:-80px;margin-left:-80px}#top-link:hover{opacity:1}.ui-menu{width:300px!important}.ui-menu-item em{font-style:normal;font-weight:700}.ui-menu .ui-menu-item a{font-size:12px}.ui-menu .aut.ui-menu-item{border-bottom:1px dotted #ccc}.ui-menu .aut.ui-menu-item:last-child{border-bottom:none}.ui-menu .aut.ui-menu-item a{line-height:1.2;color:#2e3f51}.ui-menu .aut.ui-menu-item i{margin-right:8px;font-size:12px;color:#999}#phrpAd{background:#FAFAFA;border:1px solid #CED2D5!important}#phrpAd h1{background-color:#D8DBE2!important;color:#476173!important;font-size:12px!important;padding:0 0 2px!important;margin-bottom:5px!important}#phrpAd a{text-decoration:none!important;color:#555!important}#phrpAd a:hover{text-decoration:underline!important}#phrpAd .aSTtl a{font-size:11px;color:#d71344!important}#phrpAd .aCt{font-weight:400!important;color:gray!important;font-size:11px}#phrpAd .aTtl{font-size:12px!important}#phrpAd .aItem{margin:5px 10px 0!important;border-bottom:1px dashed #CED2D5;padding-bottom:6px}.popupMarket{position:fixed;background:#FFF0F0;border:2px solid #555;box-shadow:0 0 10px rgba(0,0,0,.5);text-align:center;top:40%;left:50%;width:250px;margin-left:-125px;padding:20px;border-radius:5px;z-index:999999;display:none}

diff --git a/src/Vidal/MainBundle/Resources/public/stylesheets/common.css b/src/Vidal/MainBundle/Resources/public/stylesheets/common.css
@@ -1041,18 +1041,12 @@ tr.bold td {
 	background-repeat: no-repeat;
 	z-index:           10;
 }
-.menu a span {
-	display:     block;
-	position:    absolute;
-	z-index:     5;
-	text-align:  center;
-	left:        0;
-	right:       0;
-	bottom:      10px;
-	color:       #EFEFEF;
-	font-style:  italic;
-	font-size:   16px;
-	line-height: 16px;
+.menu a img {
+	display:  inline-block;
+	position: absolute;
+	bottom:   12px;
+	left:     12px;
+	z-index:  5;
 }
 .menu-drugs {
 	background-position: 0 0;
@@ -1080,6 +1074,18 @@ tr.bold td {
 }
 .menu-pharmacy:hover, .menu-pharmacy.active {
 	background-position: -390px -101px;
+}
+.menu-small .menu-drugs:hover, .menu-small .menu-drugs.active {
+	background-position: 0 -100px;
+}
+.menu-small .menu-symptoms:hover, .menu-small .menu-symptoms.active {
+	background-position: -130px -100px;
+}
+.menu-small .menu-doctors:hover, .menu-small .menu-doctors.active {
+	background-position: -260px -100px;
+}
+.menu-small .menu-pharmacy:hover, .menu-small .menu-pharmacy.active {
+	background-position: -390px -100px;
 }
 .menu-big a {
 	background-image: url(../images/bg/menu-big.png);

diff --git a/src/Vidal/MainBundle/Controller/AstrazenecaController.php b/src/Vidal/MainBundle/Controller/AstrazenecaController.php
@@ -16,7 +16,25 @@ use Lsw\SecureControllerBundle\Annotation\Secure;
 class AstrazenecaController extends Controller
 {
 	/**
-	 * @Route("/shkola-gastrita", name="astrazeneca_index")
+	 * @Route("shkola-gastrita", name="shkola")
+	 * @Template("VidalMainBundle:Astrazeneca:shkola.html.twig")
+	 */
+	public function shkolaAction()
+	{
+		$params = array(
+			'noYad'     => true,
+			'title'     => 'Школа гастрита',
+			'menu_left' => 'shkola',
+		);
+
+		$em              = $this->getDoctrine()->getManager();
+		$params['blogs'] = $em->getRepository('VidalMainBundle:AstrazenecaBlog')->findActive();
+
+		return $params;
+	}
+
+	/**
+	 * @Route("/shkola-gastrita2", name="astrazeneca_index")
 	 * @Template("VidalMainBundle:Astrazeneca:index.html.twig")
 	 */
 	public function indexAction()
